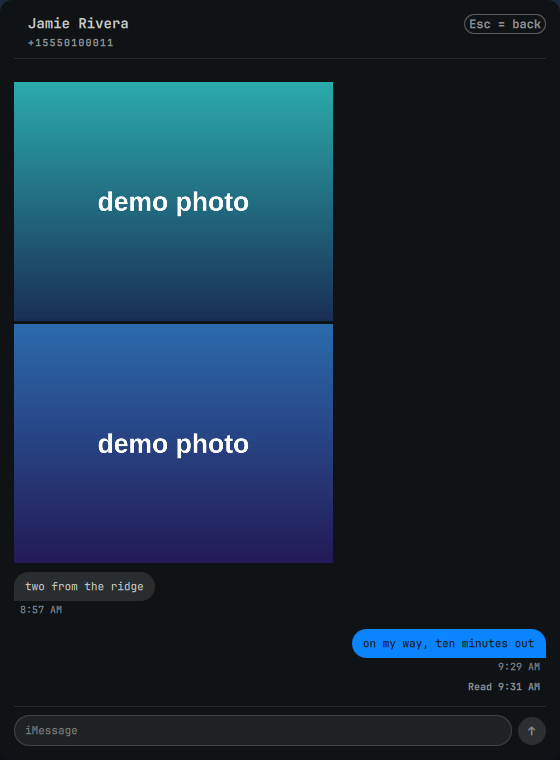
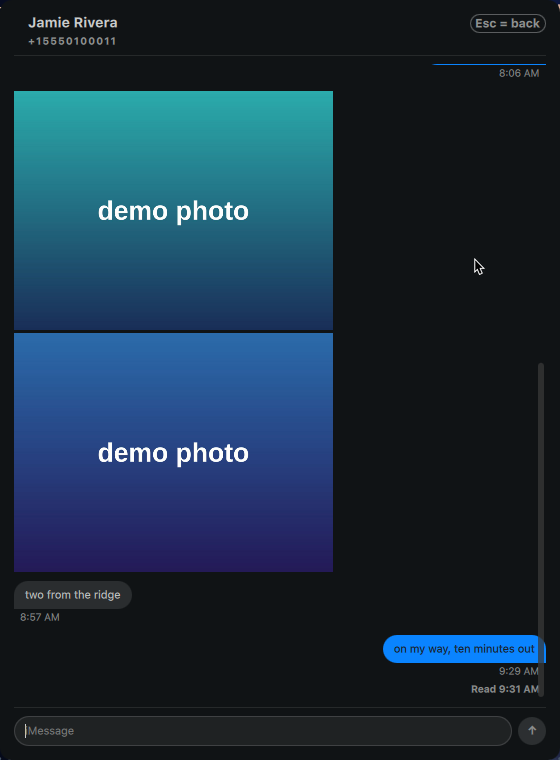
demo harness: assign themeFont, not the now-readonly fontFamily
WHAT: the SF Pro change (7c3f35d) split BlipView's font property — `themeFont`
is what a host injects, `fontFamily` is derived and READONLY. I updated
Panel.qml and BlipWindow.qml and missed scripts/demo/DemoShell.qml, which was
still assigning `fontFamily:` — an assignment to a readonly property, i.e. the
screenshot harness would have failed to load.
Found on a session resume, from the file list rather than from a test, because
nothing in `bun test` runs the harness. Worth noting: a contributor already
used blip-shots to render before/after images for #15, so this is shared
tooling now, not a private script.
VERIFIED by running it: 12 conversations loaded, all four docs/img/*.png
regenerated.

LR-T: blip, demo-harness, qml, fontfamily, regression
LR-D: blip
LR-K: readonly-fontfamily, demoshell-themefont
LR-R: 7c3f35d

Claude-Session: https://claude.ai/code/session_01K3V19BaTrQa2HCPFYbcfTy

diff --git a/scripts/demo/DemoShell.qml b/scripts/demo/DemoShell.qml
@@ -88,7 +88,7 @@ ShellRoot {
       splitView: !win.narrow
       foreground: Color.foreground
       urgent: Color.urgent
-      fontFamily: Style.font.family
+      themeFont: Style.font.family
     }
 
     }
